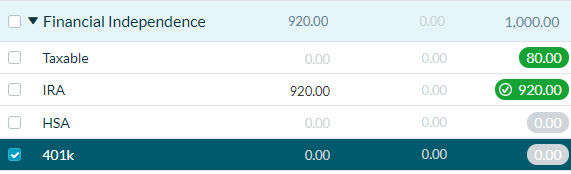
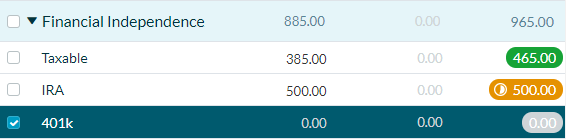
feat(ContributionNotes): add better images and text

diff --git a/src/app/forecasting/input/ynab/ynab.component.html b/src/app/forecasting/input/ynab/ynab.component.html
@@ -56,9 +56,17 @@
           <div class="row">
             <div class="col-12" >
               <h4>Reading Contributions from YNAB</h4>
-              <p><span>In the note of any category, on a new line, add <code>BR4:+:<i>amount</i></code></span>
-                (e.g. <code>BR4:+:1000</code>).</p>
-              <p class="small">When editing a category's Notes, use <kbd>shift + enter</kbd> or <kbd>shift + return</kbd> to create a new line.</p>
+              <p>The following category groups are automatically counted as contributions: </p>
+              <ul>
+                <li>Financial Independence</li>
+                <li>Investments</li>
+                <li>Retirement</li>
+                <li>FIRE</li>
+              </ul>
+              <p><span>If you would like to override the budgeted amount add <code>BR4 + <i>amount</i></code></span>
+                (e.g. <code>BR4 + 1000</code>) to the notes of that category. This is useful for including contributions to employer accounts that aren't budgeted.</p>
+
+
             </div>
           </div>
           <div class="row">
@@ -67,7 +75,12 @@
             </div>
             <div class="col-12">
               <img src="assets/images/ContributionNotes.png" class="img-fluid" alt="Contribution Notes">
+
             </div>
+            <div class="col-12">
+              <p class="small">(When editing a category's Notes, use <kbd>shift + enter</kbd> or <kbd>shift + return</kbd> to create a new line.)</p>
+            </div>
+
           </div>
         </div>
 
